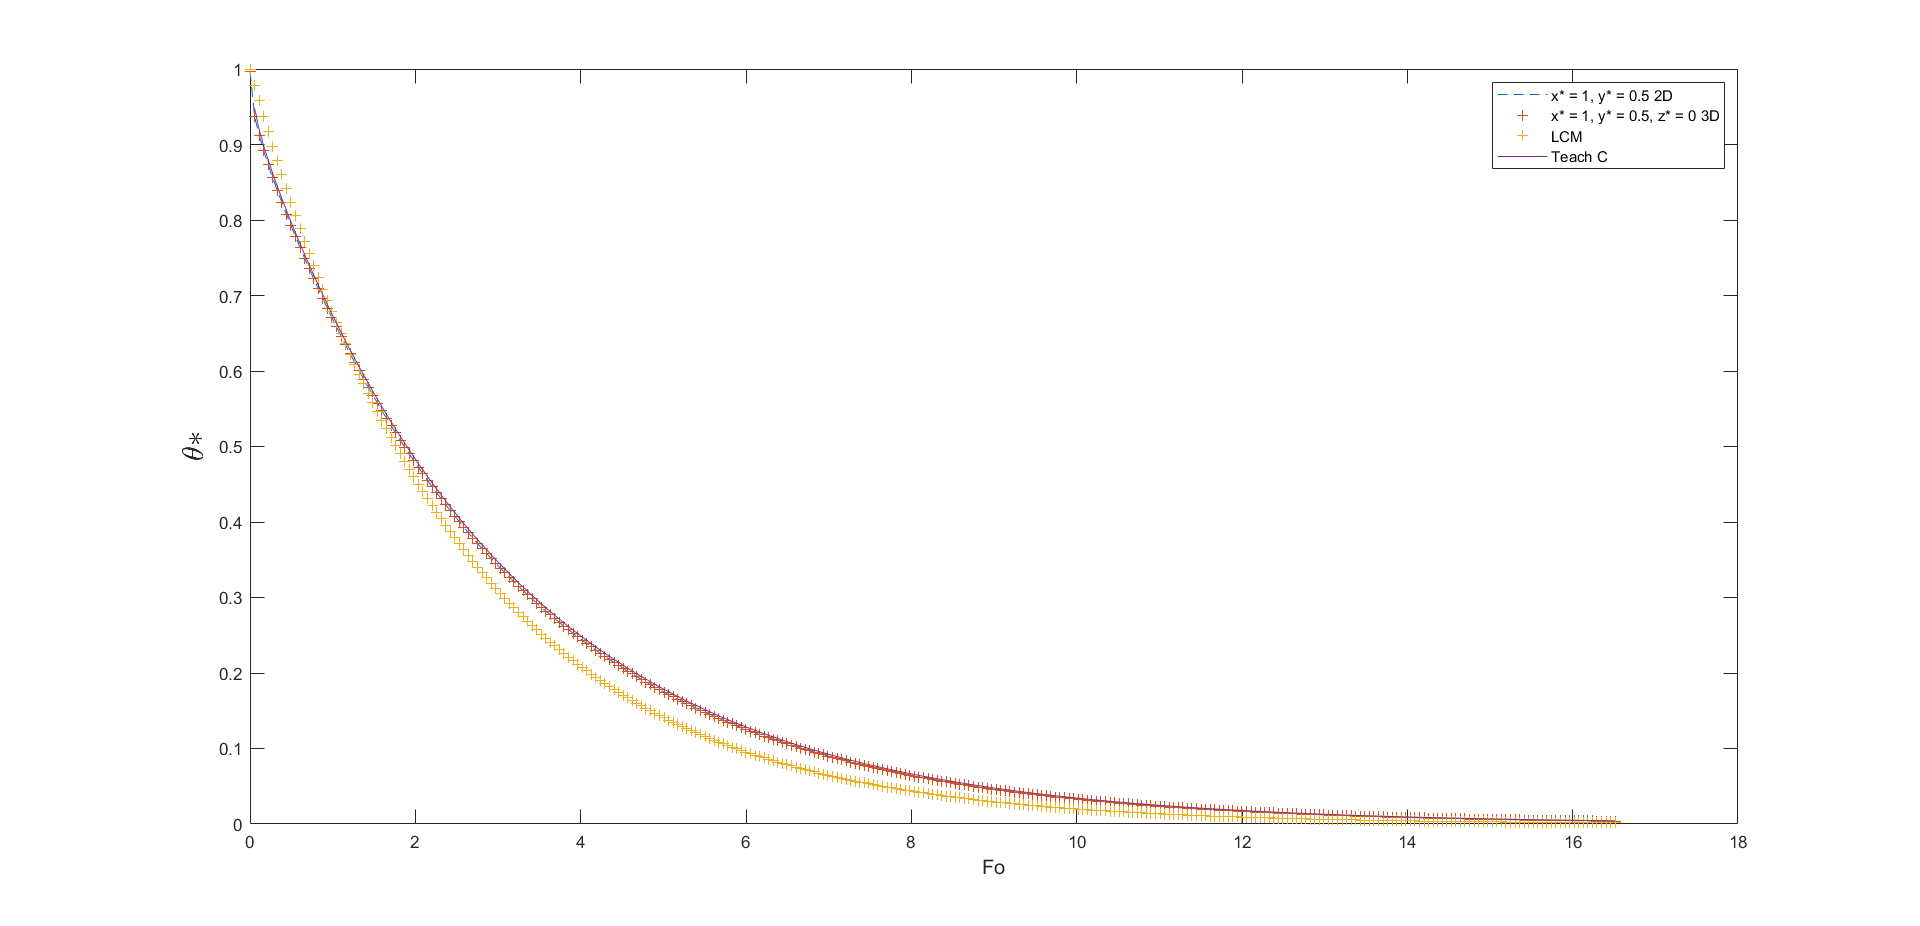
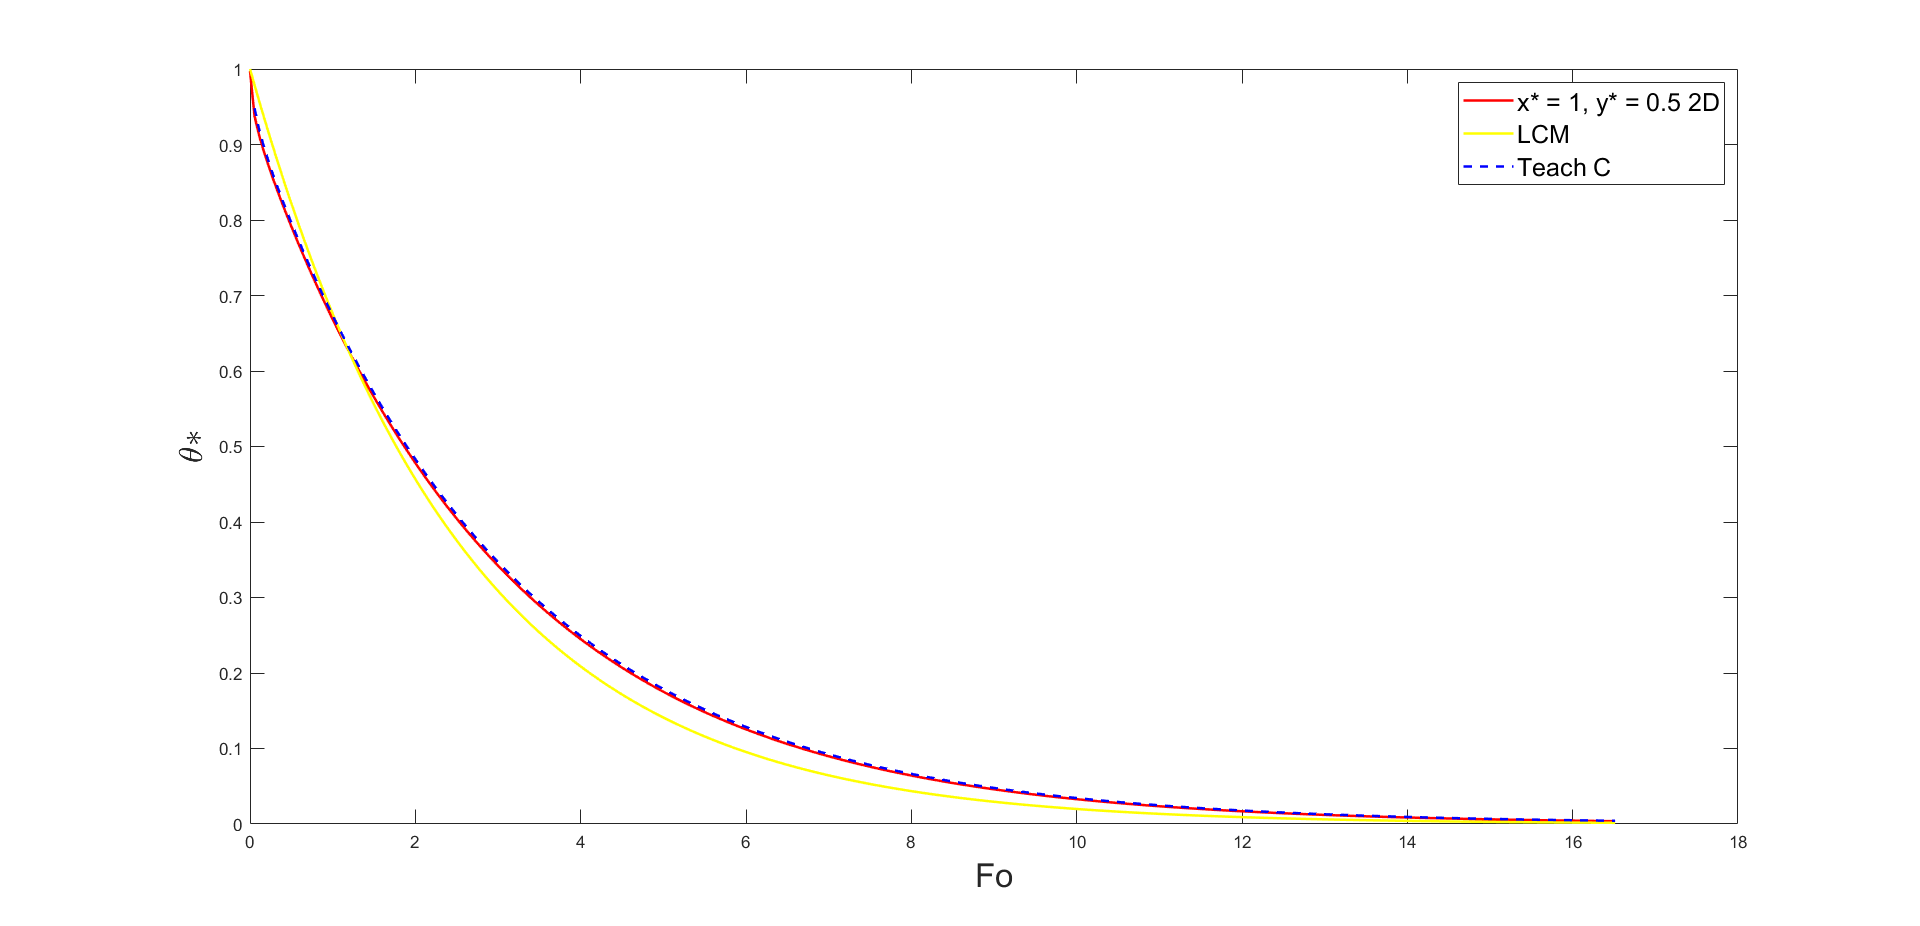
wriiii

diff --git a/Projeto/Projeto_b3D.m b/Projeto/Projeto_b3D.m
@@ -78,9 +78,9 @@ for k=1:length(z)
 
 figure()
 plot(y, theta_estrela, '.', 'markersize', 20)
-legend({'x*=0','x*=0.2','x*=0.4','x*=0.6','x*=0.8','x*=1'},'Location','northeast','Orientation','vertical')
-ylabel("$\theta*$", 'Interpreter','latex', 'FontSize', 18)
-xlabel("y*", 'FontSize', 12)
+legend({'x*=0','x*=0.2','x*=0.4','x*=0.6','x*=0.8','x*=1'},'Location','northeast','Orientation','vertical','FontSize', 20)
+ylabel("$\theta*$", 'Interpreter','latex', 'FontSize', 20)
+xlabel("y*", 'FontSize', 20)
 title( ['z=', num2str(z(k))])
 end
 
@@ -111,10 +111,10 @@ for i=1:2
                 theta_estrela_y = 0;
                 theta_estrela_z = 0;
             end
-            plot(z, theta_estrela)
-            legend(sprintf('t = %g s', t(1)),sprintf('t = %g s', t(2)),sprintf('t = %g s', t(3)),sprintf('t = %g s', t(4)),sprintf('t = %g s', t(5)),'Location','best','Orientation','vertical')
-            ylabel("$\theta*$", 'Interpreter','latex', 'FontSize', 18)
-            xlabel("z*", 'FontSize', 12)
+            plot(z, theta_estrela, 'LineWidth',1.5)
+            legend(sprintf('t = %g s', t(1)),sprintf('t = %g s', t(2)),sprintf('t = %g s', t(3)),sprintf('t = %g s', t(4)),sprintf('t = %g s', t(5)),'Location','best','Orientation','vertical','FontSize', 10)
+            ylabel("$\theta*$", 'Interpreter','latex', 'FontSize', 20)
+            xlabel("z*", 'FontSize', 20)
             title(['x* = ',num2str(x(i)),' y* =',num2str(y(j))])
             hold on
         end
@@ -149,52 +149,52 @@ for k=1:length(z)
             figure()
             plot(t*alpha/(H/2)^2, theta_estrela_3D)
             title('Solução analítica 3D')
-            legend(sprintf('x* = %g, y* = %g, z* = %g', x(i), y(j), z(k)),'Location','northeast','Orientation','vertical')
-            ylabel("$\theta*$", 'Interpreter','latex', 'FontSize', 18)
-            xlabel("Fo", 'FontSize', 12)
+            legend(sprintf('x* = %g, y* = %g, z* = %g', x(i), y(j), z(k)),'Location','northeast','Orientation','vertical','FontSize', 15)
+            ylabel("$\theta*$", 'Interpreter','latex', 'FontSize', 20)
+            xlabel("Fo", 'FontSize', 20)
             hold on
         end
     end
 end
 
 %% erros
-V_corpo = H*W*L;
-A_corpo = H*W*2 + H*L*2 + W*L;
-x = [0 1];
-y = [0 0.5 1];
-theta_estrela_x = 0;
-theta_estrela_y = 0;
-theta_estrela_z = 0;
-theta_estrela = 0;
-z = [0 1];
-t = linspace(0, 4000, 200);
-for k=1:length(z)
-    for i=1:2
-        for j=1:3
-            for p=1:length(ksi_x)
-                C_x(p) = 4*sin(ksi_x(p))/(2*ksi_x(p) + sin(2*ksi_x(p)));
-                C_y(p) = 4*sin(ksi_y(p))/(2*ksi_y(p) + sin(2*ksi_y(p)));
-                C_z(p) = 4*sin(ksi_z(p))/(2*ksi_z(p) + sin(2*ksi_z(p)));
-                theta_estrela_x = theta_estrela_x + C_x(p)*exp(-ksi_x(p)^2*alpha.*t/(H/2)^2)*cos(ksi_x(p)*x(i));
-                theta_estrela_y = theta_estrela_y + C_y(p)*exp(-ksi_y(p)^2*alpha.*t/(W)^2)*cos(ksi_y(p)*y(j));
-                theta_estrela_z = theta_estrela_z + C_z(p)*exp(-ksi_z(p)^2*alpha.*t/(L/2)^2)*cos(ksi_z(p)*z(k));
-            end
-            theta_estrela_2D = theta_estrela_x.*theta_estrela_y;
-            theta_estrela_3D = theta_estrela_x.*theta_estrela_y.*theta_estrela_z;
-            theta_star_lcm = exp(-h*A_corpo/(ro*V_corpo*c).*t);
-            erro_2D_3_D = abs(theta_estrela_3D - theta_estrela_2D);
-            erro_LCM_3D = abs(theta_star_lcm - theta_estrela_3D);
-            theta_estrela_x = 0;
-            theta_estrela_y = 0;
-            theta_estrela_z = 0;
-            figure()
-            plot(t,erro_2D_3_D,'--', t,erro_LCM_3D,'+')
-            title(sprintf('x = %g, y = %g, z = %g 3D', x(i), y(j), z(k)))
-            legend('ERRO 2D','ERRO LCM','Location','northeast','Orientation','vertical')
-            ylabel("ERRO", 'Interpreter','latex', 'FontSize', 18)
-            xlabel("t", 'FontSize', 12)
-            
-        end
-    end
-end
-
+% V_corpo = H*W*L;
+% A_corpo = H*W*2 + H*L*2 + W*L;
+% x = [0 1];
+% y = [0 0.5 1];
+% theta_estrela_x = 0;
+% theta_estrela_y = 0;
+% theta_estrela_z = 0;
+% theta_estrela = 0;
+% z = [0 1];
+% t = linspace(0, 4000, 200);
+% for k=1:length(z)
+%     for i=1:2
+%         for j=1:3
+%             for p=1:length(ksi_x)
+%                 C_x(p) = 4*sin(ksi_x(p))/(2*ksi_x(p) + sin(2*ksi_x(p)));
+%                 C_y(p) = 4*sin(ksi_y(p))/(2*ksi_y(p) + sin(2*ksi_y(p)));
+%                 C_z(p) = 4*sin(ksi_z(p))/(2*ksi_z(p) + sin(2*ksi_z(p)));
+%                 theta_estrela_x = theta_estrela_x + C_x(p)*exp(-ksi_x(p)^2*alpha.*t/(H/2)^2)*cos(ksi_x(p)*x(i));
+%                 theta_estrela_y = theta_estrela_y + C_y(p)*exp(-ksi_y(p)^2*alpha.*t/(W)^2)*cos(ksi_y(p)*y(j));
+%                 theta_estrela_z = theta_estrela_z + C_z(p)*exp(-ksi_z(p)^2*alpha.*t/(L/2)^2)*cos(ksi_z(p)*z(k));
+%             end
+%             theta_estrela_2D = theta_estrela_x.*theta_estrela_y;
+%             theta_estrela_3D = theta_estrela_x.*theta_estrela_y.*theta_estrela_z;
+%             theta_star_lcm = exp(-h*A_corpo/(ro*V_corpo*c).*t);
+%             erro_2D_3_D = abs(theta_estrela_3D - theta_estrela_2D);
+%             erro_LCM_3D = abs(theta_star_lcm - theta_estrela_3D);
+%             theta_estrela_x = 0;
+%             theta_estrela_y = 0;
+%             theta_estrela_z = 0;
+%             figure()
+%             plot(t,erro_2D_3_D,'--', t,erro_LCM_3D,'+')
+%             title(sprintf('x = %g, y = %g, z = %g 3D', x(i), y(j), z(k)))
+%             legend('ERRO 2D','ERRO LCM','Location','northeast','Orientation','vertical')
+%             ylabel("ERRO", 'Interpreter','latex', 'FontSize', 18)
+%             xlabel("t", 'FontSize', 12)
+%             
+%         end
+%     end
+% end
+% 

diff --git a/Projeto/Projeto_b2D.m b/Projeto/Projeto_b2D.m
@@ -50,11 +50,11 @@ end
 theta_estrela_x = 0;
 theta_estrela_y = 0;
 x=[0 1];
-y=[0.5 1];
+y=[0 0.5 1];
 theta_estrela = 0;
 t = linspace(0, 6000, 600);
 for i=1:2
-    for k=1:2
+    for k=1:3
             for p=1:length(ksi_x)
                 C_x(p) = 4*sin(ksi_x(p))/(2*ksi_x(p) + sin(2*ksi_x(p)));
                 C_y(p) = 4*sin(ksi_y(p))/(2*ksi_y(p) + sin(2*ksi_y(p)));
@@ -65,11 +65,11 @@ for i=1:2
         theta_estrela_x = 0;
         theta_estrela_y = 0;
         figure()
-        plot(t*alpha/(H/2)^2, theta_estrela)
+        plot(t*alpha/(H/2)^2, theta_estrela,'LineWidth',1.5)
         title('Solução analítica 2D')
-        legend(sprintf('x* = %g, y* = %g', x(i), y(k)),'Location','northeast','Orientation','vertical')
-        ylabel("$\theta*$", 'Interpreter','latex', 'FontSize', 18)
-        xlabel("Fo", 'FontSize', 12)
+        legend(sprintf('x* = %g, y* = %g', x(i), y(k)),'Location','northeast','Orientation','vertical','FontSize', 15)
+        ylabel("$\theta*$", 'Interpreter','latex', 'FontSize', 20)
+        xlabel("Fo", 'FontSize', 20)
         hold on
     end
 end
@@ -114,11 +114,11 @@ for i=1:2
         theta_estrela_x = 0;
         theta_estrela_y = 0;
         figure()
-        plot(t*alpha/(H/2)^2, theta_estrela_20,t*alpha/(H/2)^2, theta_estrela_10,t*alpha/(H/2)^2,theta_estrela_5,t*alpha/(H/2)^2,theta_estrela_1,'LineWidth',1.1)
+        plot(t*alpha/(H/2)^2, theta_estrela_20,t*alpha/(H/2)^2, theta_estrela_10,t*alpha/(H/2)^2,theta_estrela_5,t*alpha/(H/2)^2,theta_estrela_1,'LineWidth',1.5)
         title('Solução analítica 2D')
-        legend(sprintf('x* = %g, y* = %g 20 termos', x(i), y(k)),sprintf('x* = %g, y* = %g 10 termos', x(i), y(k)),sprintf('x* = %g, y* = %g 5 termos', x(i), y(k)),sprintf('x* = %g, y* = %g 1 termo', x(i), y(k)),'Location','northeast','Orientation','vertical')
-        ylabel("$\theta*$", 'Interpreter','latex', 'FontSize', 18)
-        xlabel("Fo", 'FontSize', 12)
+        legend(sprintf('x* = %g, y* = %g 20 termos', x(i), y(k)),sprintf('x* = %g, y* = %g 10 termos', x(i), y(k)),sprintf('x* = %g, y* = %g 5 termos', x(i), y(k)),sprintf('x* = %g, y* = %g 1 termo', x(i), y(k)),'Location','northeast','Orientation','vertical','FontSize', 15)
+        ylabel("$\theta*$", 'Interpreter','latex', 'FontSize', 20)
+        xlabel("Fo", 'FontSize', 20)
         hold on
     end
 end

diff --git a/Projeto/Projeto.m b/Projeto/Projeto.m
@@ -26,8 +26,8 @@ theta_star_lcm = @(t_lcm)exp(-h*A_corpo/(ro*V_corpo*c).*t_lcm);
 figure()
 plot(t_lcm*alpha/(H/2)^2, theta_star_lcm(t_lcm),'LineWidth',2.0);
 title('Método da Capacitância Global')
-ylabel("$\theta*$", 'Interpreter','latex', 'FontSize', 18)
-xlabel("Fo", 'FontSize', 12)
+ylabel("$\theta*$", 'Interpreter','latex', 'FontSize', 20)
+xlabel("Fo", 'FontSize', 20)
 
 
 
